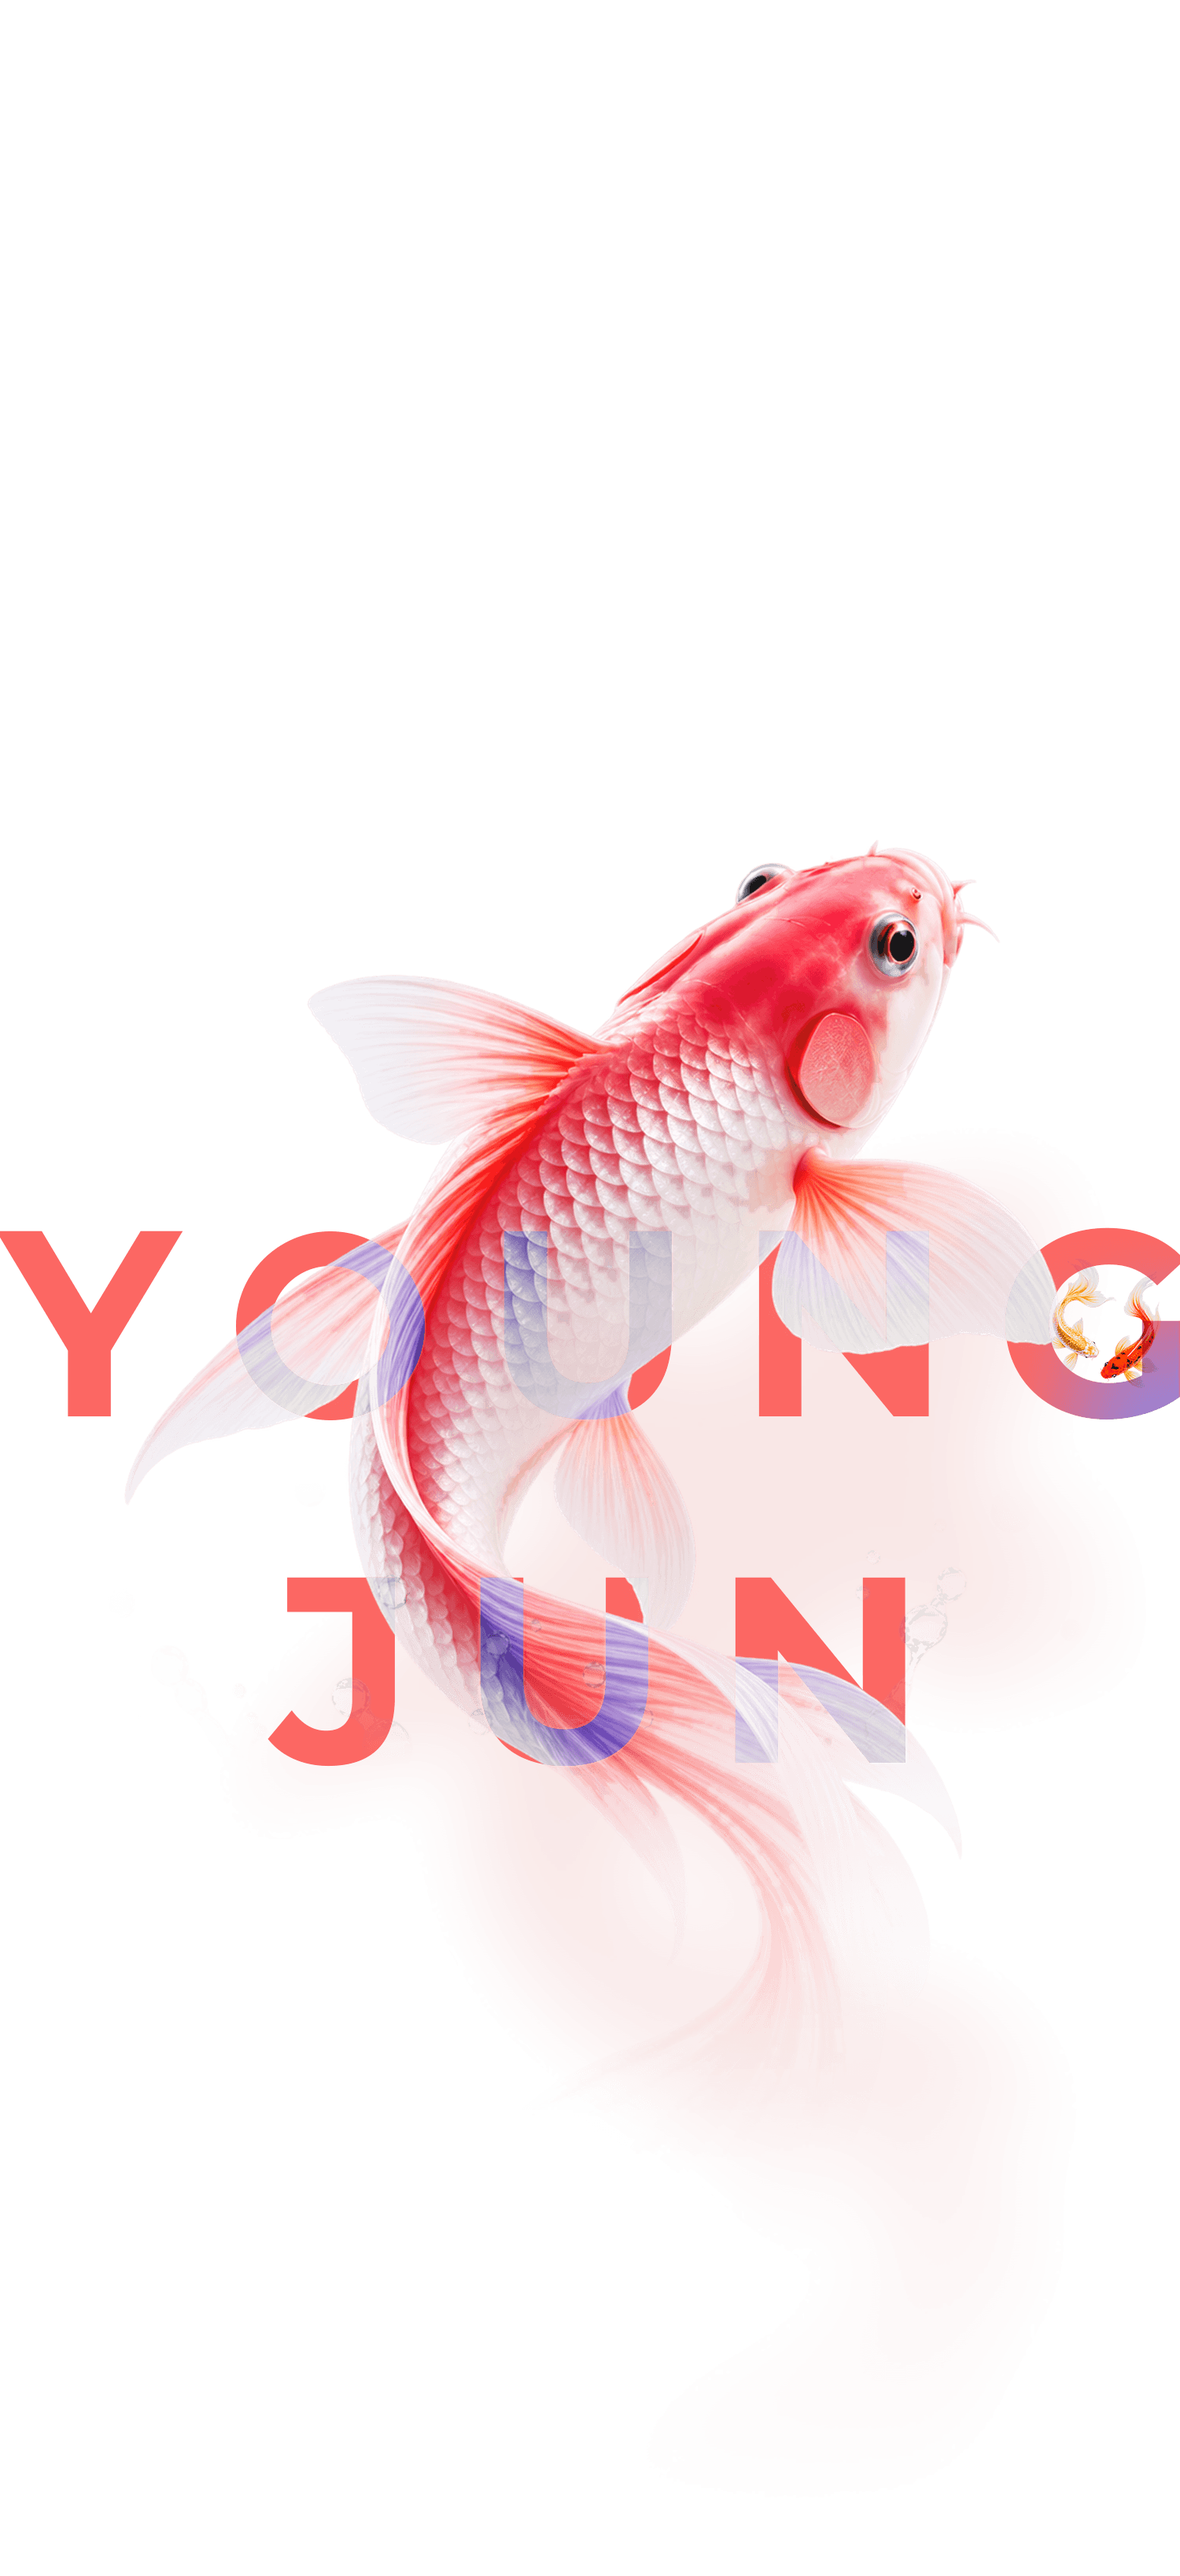
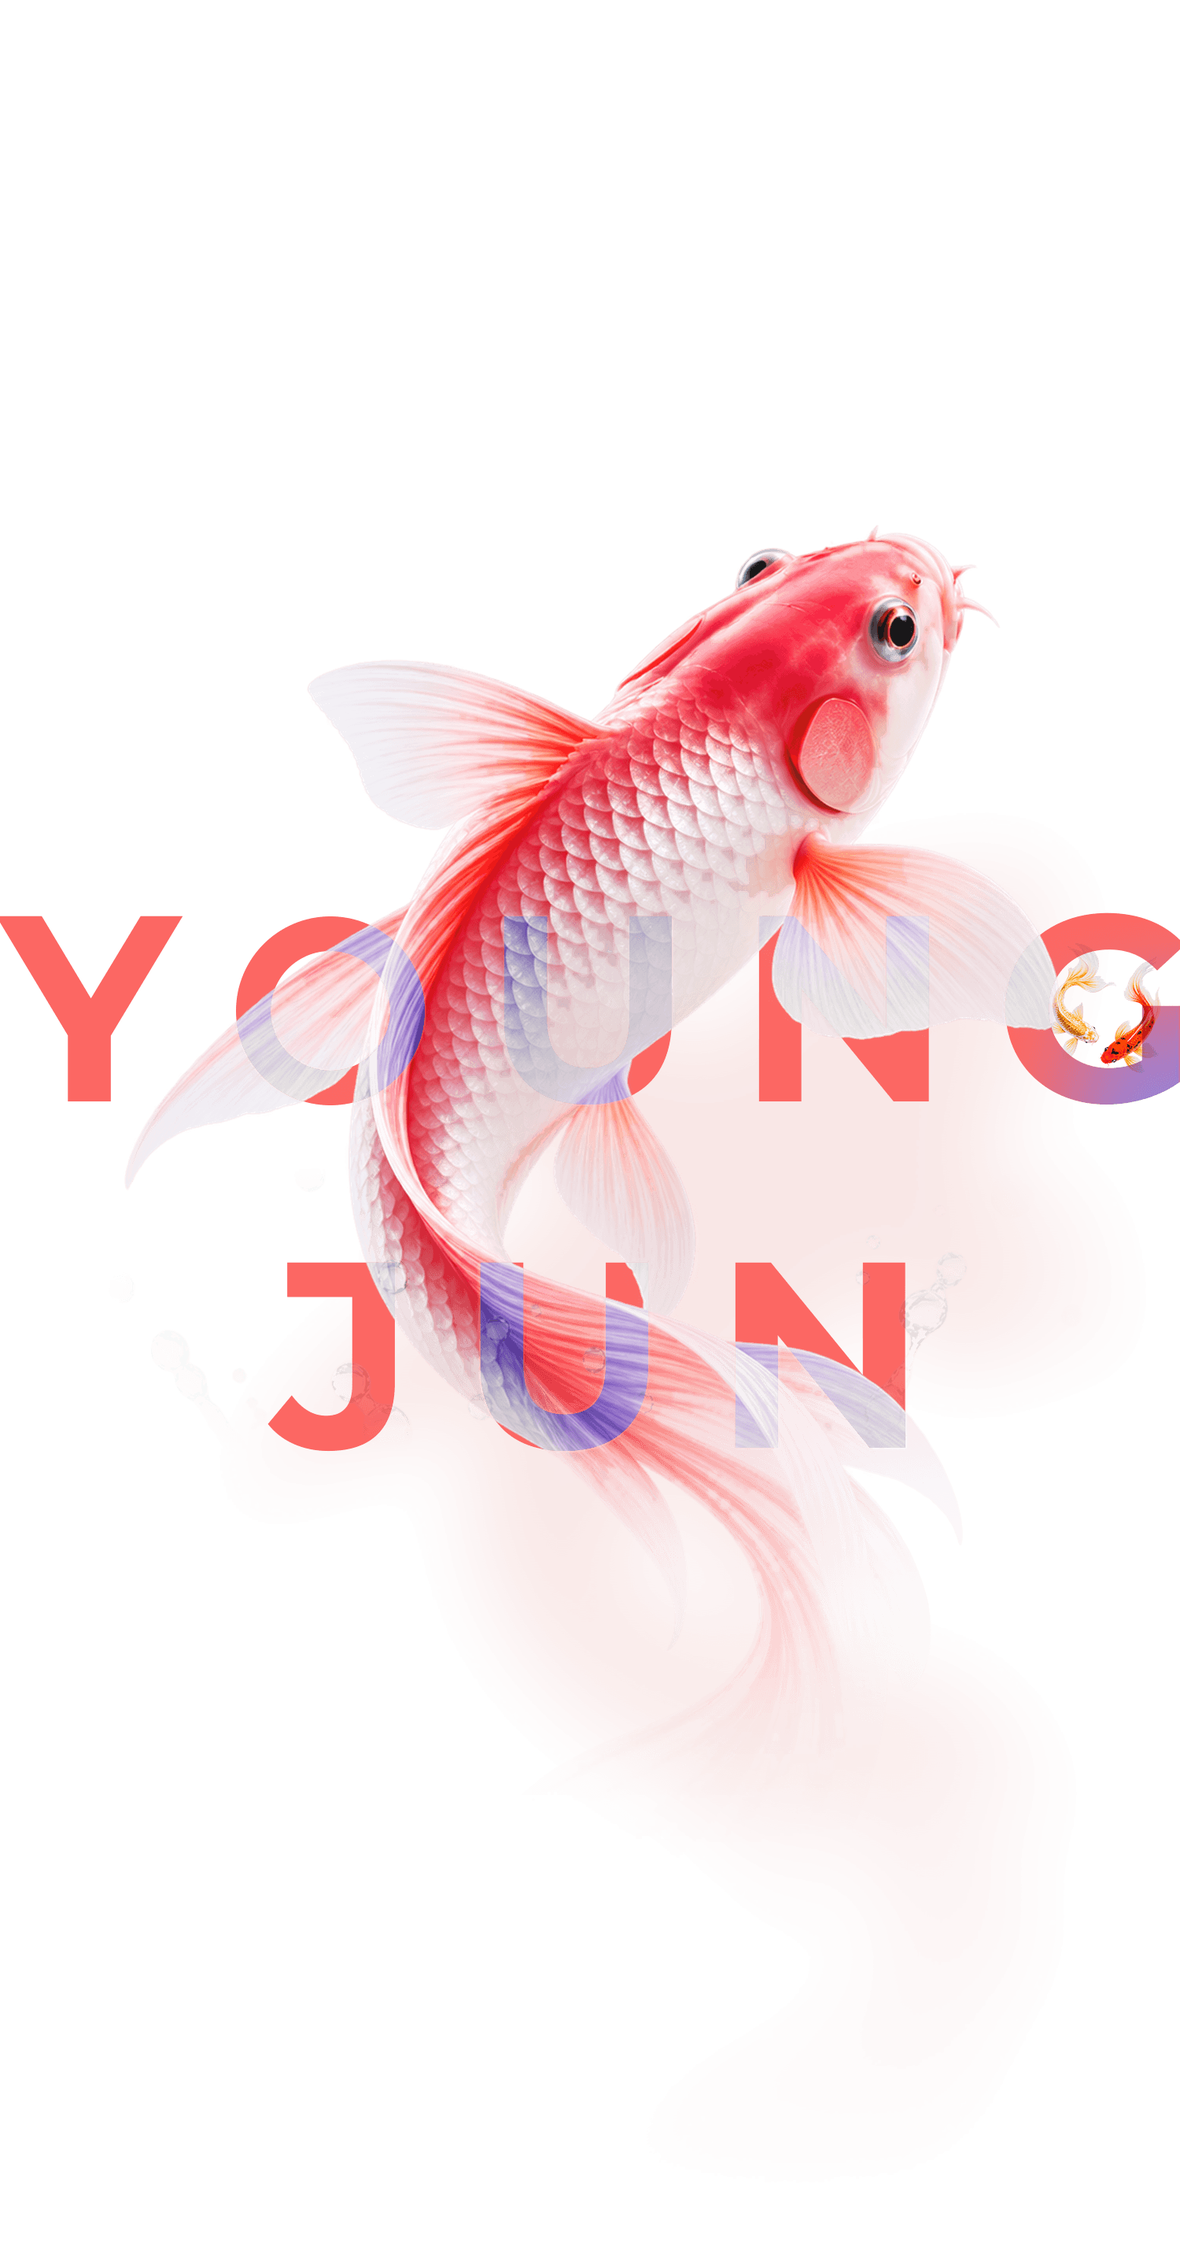
Add files via upload

Changed region(s): [[0.0, 0.2169, 1.0, 0.7437]]

diff --git a/assets/css/content.scss b/assets/css/content.scss
@@ -16,7 +16,7 @@ $color_gray4: #f5f5f5;
     height: 95.1rem;
 
     @media (max-width: 768px) {
-      height: 81.8rem;
+      height: 71.8rem;
     }
 
     .bl_side {
@@ -30,8 +30,8 @@ $color_gray4: #f5f5f5;
       z-index: 10;
 
       @media (max-width: 768px) {
-        height: 37.5rem;
-        width: 100%;
+        height: 27.5rem;
+        width: 27.5rem;
       }
 
       &_flow {
@@ -142,7 +142,7 @@ $color_gray4: #f5f5f5;
         @media (max-width: 768px) {
           height: 54.4rem;
           left: -16.7rem;
-          top: 15.4rem;
+          top: 5.4rem;
           width: 54.4rem;
         }
 

diff --git a/assets/css/content.css b/assets/css/content.css
@@ -5,7 +5,7 @@
 }
 @media (max-width: 768px) {
   .ly_page .ly_header {
-    height: 81.8rem;
+    height: 71.8rem;
   }
 }
 .ly_page .ly_header .bl_side {
@@ -20,8 +20,8 @@
 }
 @media (max-width: 768px) {
   .ly_page .ly_header .bl_side {
-    height: 37.5rem;
-    width: 100%;
+    height: 27.5rem;
+    width: 27.5rem;
   }
 }
 .ly_page .ly_header .bl_side_flow {
@@ -88,7 +88,7 @@
   .ly_page .ly_header .bl_side_wave {
     height: 54.4rem;
     left: -16.7rem;
-    top: 15.4rem;
+    top: 5.4rem;
     width: 54.4rem;
   }
 }
